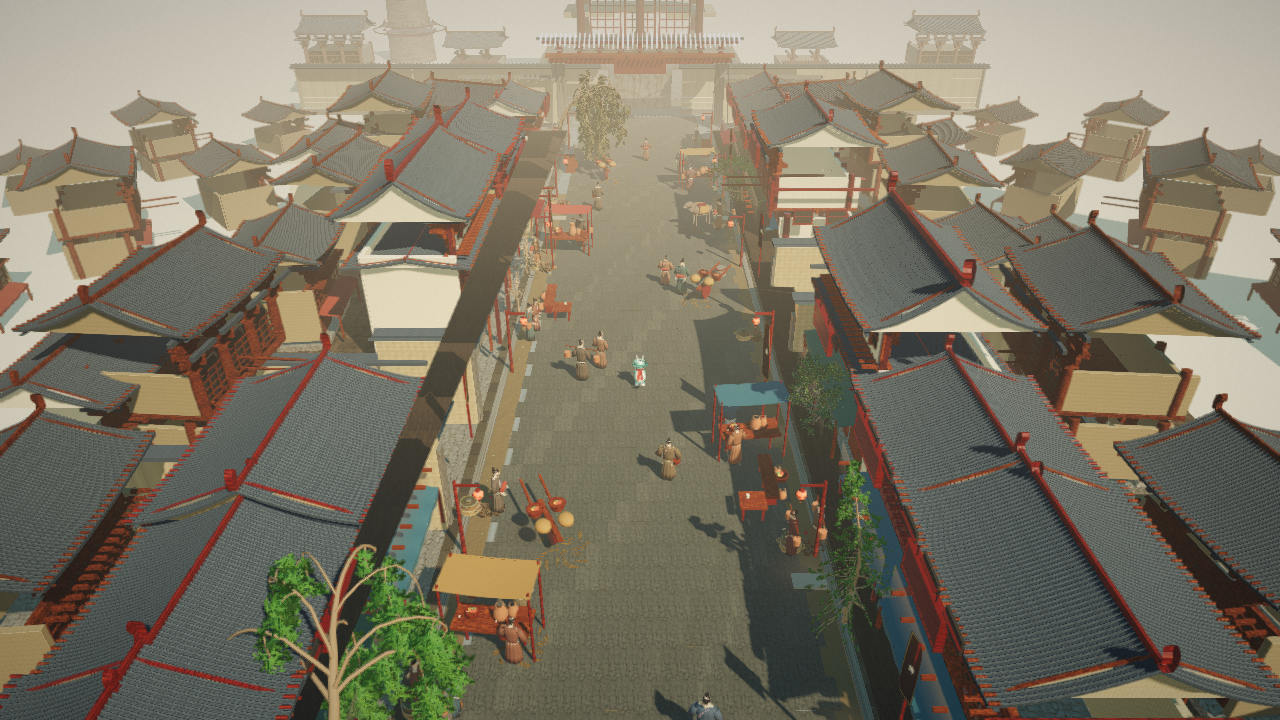
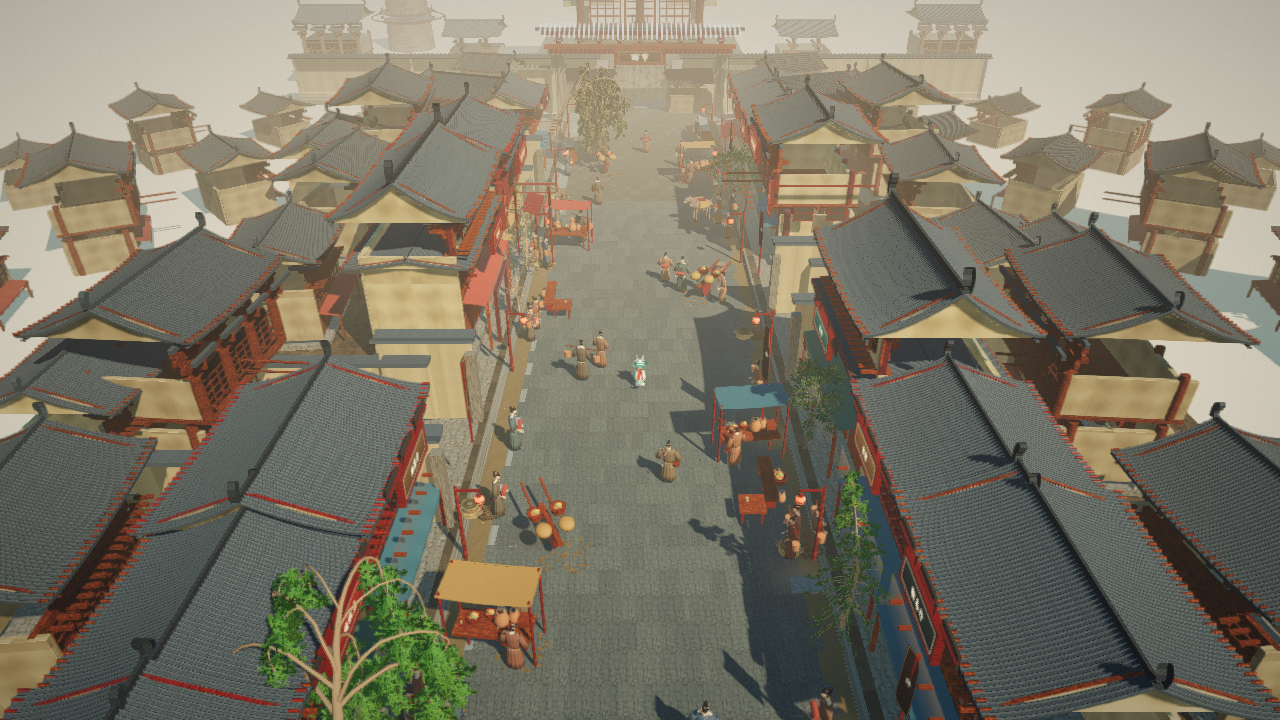
Give the roof ridges tile material instead of dark timber

diff --git a/src/hero-street.js b/src/hero-street.js
@@ -662,9 +662,17 @@
     roof.map.repeat.set(3, 6);
     roof.map.needsUpdate = true;
     roof.color.setHex(0x9aa4a8);
+
     roof.roughness = 0.86;
     roof.envMapIntensity = 0.28;
     roof.normalScale.set(0.42, 0.42);
+    // 屋脊：与屋面同贴图，颜色压深一档（叠瓦比屋面更密实）
+    // 注意：这里用的是局部变量 `roof`（loadPBR 的返回值），
+    // 不是 materials.roof——后者在此处还没赋值。
+    materials.roofRidge = roof.clone();
+    materials.roofRidge.name = 'street-roof-ridge';
+    materials.roofRidge.color.setHex(0x6f7678);
+    materials.roofRidge.roughness = 0.88;
     // 布料是双面渲染的（布篷两面都要看见），
     // 但 shadowSide 默认只算单面，布篷正下方的阴影因此缺失。
     // 双面材质的 shadowSide 必须同步，否则投影与受光不一致。
@@ -3636,7 +3644,14 @@
       mat_stone: materials.stone,
       mat_roof_tile: materials.roof,
       mat_roof_surface: materials.roof,
-      mat_roof_ridge: materials.darkWood,
+      /* 屋脊必须用瓦色，不能用木色。
+       *
+       * 原先把 `mat_roof_ridge` 映射到 `darkWood`（红褐色木材）——
+       * 结果正脊与垂脊在俯瞰图里是一条条**朱红色的细线**，
+       * 读作"贴在屋面上的红纸条"。
+       * 唐式屋脊是叠瓦垒成的，颜色与屋面一致、只略深，
+       * 断面厚重。改用深一档的瓦材质。 */
+      mat_roof_ridge: materials.roofRidge,
       mat_plaster: materials.plaster,
       // 铺面内壁：格扇后面那层暗色面。没有它，格眼后面直接透出后墙白灰，
       // 整面读成"白墙贴了一排木格子"。

diff --git a/docs/REBUILD_PLAN.md b/docs/REBUILD_PLAN.md
@@ -2459,6 +2459,23 @@ UV 退化 + 材质语义冲突 + 手建几何无 UV，三者叠加，
 数据没有变化这个事实，直接指向"视线方向仍在跳过区间"，
 比重新读代码快得多。
 
+### 同轮：屋脊改用瓦色（建筑第一百一十八轮）
+
+- 先排除一处：巷子尽头**有实体**（射线打到 `street-shop-interior` /
+  `street-wood-alley` / `street-plaster-warm`），不是空的。不改。
+- 俯瞰图放大后暴露问题：**正脊与垂脊是朱红色的细线**，
+  读作"贴在屋面上的红纸条"。
+- 查映射：`mat_roof_ridge: materials.darkWood` ——
+  屋脊用了**红褐色木材**材质，而唐式屋脊是叠瓦垒成、颜色与屋面一致。
+- 修法：新增 `materials.roofRidge`（继承屋面的贴图，颜色压深一档 0x6f7678）。
+- **两次报错**：
+  1. 放在 `roof` 定义之前 → `Cannot read properties of undefined`；
+  2. 移到之后仍报错 → 因为这里用的是**局部变量 `roof`**
+     （`loadPBR` 的返回值），不是 `materials.roof`。
+     改正变量名后生效。
+- 效果：屋脊变成深灰瓦脊，与屋面一致，不再是朱红细线。
+- 复审 1280×720 / 844×390 均 passed，7161/7247 calls。
+
 ## 决策记录
 
 - 构件几何统一以"底面 z=0"为基准，便于按层堆叠与复用。
